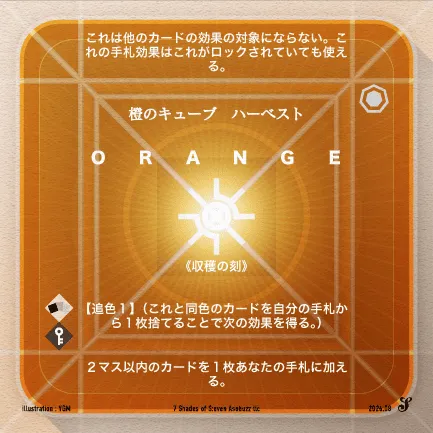
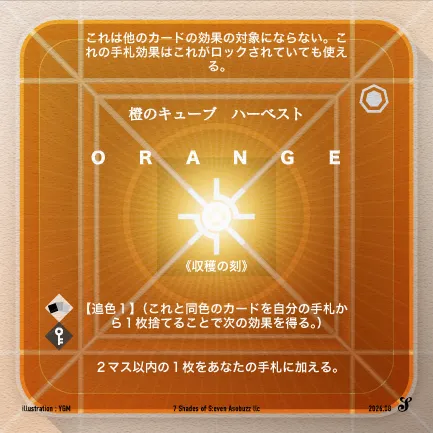
カード効果テキストの語順修正をdocs/cards.mdへ反映、通常/ファーストカード画像を8枚差し替え

Changed region(s): [[0.1801, 0.8106, 0.8106, 0.9007], [0.9307, 0.9307, 0.9607, 0.9607], [0.1201, 0.6905, 0.1501, 0.7206]]

diff --git a/src/card-effects.js b/src/card-effects.js
@@ -224,11 +224,10 @@ export const CARD_EFFECTS = {
         },
       ],
     },
-    // 手札効果: 「任意の3マスに山札からカードを裏向きで1枚ずつ置く。」既存のPLACE_CARD
-    // （source:"deck"・CHOOSE・count:3）をそのまま使う。生成文「任意の３マスに山札から
-    // １枚ずつ裏向きで置く。」は「カードを」の有無・語順・数字の全角半角がdocs/cards.md
-    // と少し違うが、収穫と種まき等と同じ理由（ユーザー判断で生成文の語順統一を優先、
-    // 続き25参照）で意図的に許容する。
+    // 手札効果: 「任意の３マスに山札から１枚ずつ裏向きで置く。」既存のPLACE_CARD
+    // （source:"deck"・CHOOSE・count:3）をそのまま使う（続き89、ユーザーが
+    // カード効果テキスト.txt/docs/cards.mdをこの生成文の語順に合わせて修正済み。
+    // 続き25で決めた「生成文の語順統一を優先」の通り、生成側は変更していない）。
     handEffect: {
       actions: [
         {
@@ -319,7 +318,7 @@ export const CARD_EFFECTS = {
   },
 
   // 4. 収穫と種まき（橙、通常カード）
-  // 到達効果: 「任意の１マスの１枚をあなたの手札に加える。手札から１枚をそのマスに
+  // 到達効果: 「任意の１マスの１枚をあなたの手札に加える。そのマスに手札から１枚
   // 裏向きで置く。」／手札効果: 「上記の到達時の効果を得る。」（docs/cards.md、
   // コスト無し）。ユーザー報告「手札からドラッグしても使用宣言がかからず、場に
   // 裏向きで置かれてしまう」の原因: handEffectデータ自体が無く、main.js側の
@@ -493,7 +492,7 @@ export const CARD_EFFECTS = {
   },
 
   // 10. 橙のキューブ ハーベスト（橙、ファーストカード） 手札効果:
-  // 「【追色１】２マス以内のカードを１枚あなたの手札に加える。」
+  // 「【追色１】２マス以内の１枚をあなたの手札に加える。」
   // cardIdはcards-data.js（FIRST_CARDS）の実際のid「first-orange」に合わせる
   // （「色-first」ではなく「first-色」——main.js側のクリック判定
   // (cardId?.startsWith("first-"))もこの命名規則に依存している）。

diff --git a/CLAUDE.md b/CLAUDE.md
@@ -11567,3 +11567,43 @@ u=横方向・v=縦方向）にも使えるよう一般化した`rotateFraction(
   状態で接触を発生させ、無効化・カード discard・任意ロックの一連の流れ）で
   最終的に正しく動作することを確認済み。
 
+### 2026-07-29（続き90）：カード効果テキストの語順修正をdocs/cards.mdへ反映、通常/ファーストカード画像を8枚差し替え
+
+- **背景**: ユーザーが`カード効果　テキスト.txt`（プロジェクト直下、`.gitignore`で
+  git管理対象外のローカル参照ファイル）を「主にカード開発ウィンドウ内の生成と
+  実際で食い違うものについて」修正し、あわせて`画像素材/通常カード`・
+  `画像素材/ファーストカード`（同じくgit管理対象外）内のカード画像を一部
+  差し替えた、との報告。
+- **テキストの食い違いを特定・docs/cards.mdへ反映**: 更新後の`.txt`と
+  `docs/cards.md`を突き合わせ、実質的な内容差分を3件確認した。いずれも
+  `card-effects.js`の`generateEffectText()`が実際に生成する文言（続き25で
+  「生成文の語順統一を優先」と決めた通り、DSLの都合上の語順）に`.txt`側を
+  合わせた変更で、コード側の修正は不要と判断した（生成ロジックを実際に
+  読み、返り値がいずれも新しい文言と一致することを確認済み）。
+  - 橙のキューブ ハーベスト（ファーストカード）手札効果:
+    「２マス以内のカードを１枚あなたの手札に加える。」→
+    「２マス以内の１枚をあなたの手札に加える。」
+  - 収穫と種まき（通常カード）到達効果:
+    「...手札から１枚をそのマスに裏向きで置く。」→
+    「...そのマスに手札から１枚裏向きで置く。」
+  - 増殖する樹々（通常カード）手札効果:
+    「任意の3マスに山札からカードを裏向きで1枚ずつ置く。」→
+    「任意の３マスに山札から１枚ずつ裏向きで置く。」（全角数字化・「カードを」削除も含む）
+  - あわせて`card-effects.js`側の該当3箇所のコメント（旧docs/cards.md文言を
+    引用していた部分）も新しい文言に更新した。
+- **カード画像8枚を差し替え**: `画像素材/通常カード`・`画像素材/ファーストカード`
+  内でタイムスタンプが新しい（本日分の）ファイルを特定し、`cards-data.js`の
+  日本語名→cardId対応表に従って`assets/cards/{cardId}.webp`へ上書きコピーした。
+  - 通常カード7枚: なないろの巨光(white-radiance)・プレゼント(pink-present)・
+    マスチェンジ(orange-mass-change)・収穫と種まき(orange-harvest-sow)・
+    合同建設(green-joint-construction)・増殖する樹々(green-growing-trees)・
+    選べる罠(blue-choosable-trap)
+  - ファーストカード1枚: ハーベスト(first-orange)
+  - コピー後の画像を実際に開いて内容を確認したところ、「収穫と種まき」
+    「橙のキューブ ハーベスト」の印刷済みテキストが、上記で修正した新しい
+    語順（「そのマスに手札から１枚裏向きで置く。」「２マス以内の１枚を
+    あなたの手札に加える。」）に既に合わせて作り直されていることを確認——
+    テキスト修正と画像差し替えが同じ語順統一の一環であったことが裏付けられた。
+  - `getCardImagePath()`は`assets/cards/${cardId}.webp`を参照するだけで、
+    ファイル名を変えずに中身を上書きしたためコード変更は不要。
+

diff --git a/docs/cards.md b/docs/cards.md
@@ -29,7 +29,7 @@
 
 ### 橙のキューブ　ハーベスト
 - ★ これは他のカードの効果の対象にならない。これの手札効果はこれがロックされていても使える。
-- ■ 【追色１】２マス以内のカードを１枚あなたの手札に加える。
+- ■ 【追色１】２マス以内の１枚をあなたの手札に加える。
 
 補足: 相手の駒が乗っているマスも対象にでき、対象のマスのカードの表裏は問わない。手札にまだ橙のカードを持っていれば、そのカードを捨てることで何度でも効果を使ってもよい。「あなたから２マス以内」とは、仮に２マス移動する場合に移動できる範囲のことを示す。自分のいるマスも対象である。
 
@@ -161,7 +161,7 @@
 #### 収穫と種まき
 > Ω 蒔いた希望は、必ず誰かが受け取る。
 
-- ● 任意の１マスの１枚をあなたの手札に加える。手札から１枚をそのマスに裏向きで置く。
+- ● 任意の１マスの１枚をあなたの手札に加える。そのマスに手札から１枚裏向きで置く。
 - ■ 上記の到達時の効果を得る。
 
 補足: 特になし。
@@ -198,7 +198,7 @@
 > Ω 一つの森は、一つの種から始まる。
 
 - ● ２マス以内の何もない全てのマスに山札からカードを１枚ずつ裏向きで置く。
-- ■ 任意の3マスに山札からカードを裏向きで1枚ずつ置く。
+- ■ 任意の３マスに山札から１枚ずつ裏向きで置く。
 
 到達効果補足: 「何もないマス」とはカードもなくプレイヤーもいないマスのことである。「２マス以内」とは、仮に２マス移動する場合に移動できる範囲のことを示す。自分のいるマスも対象である。
 手札効果補足: カードの置かれているマスへも置くことができる。
